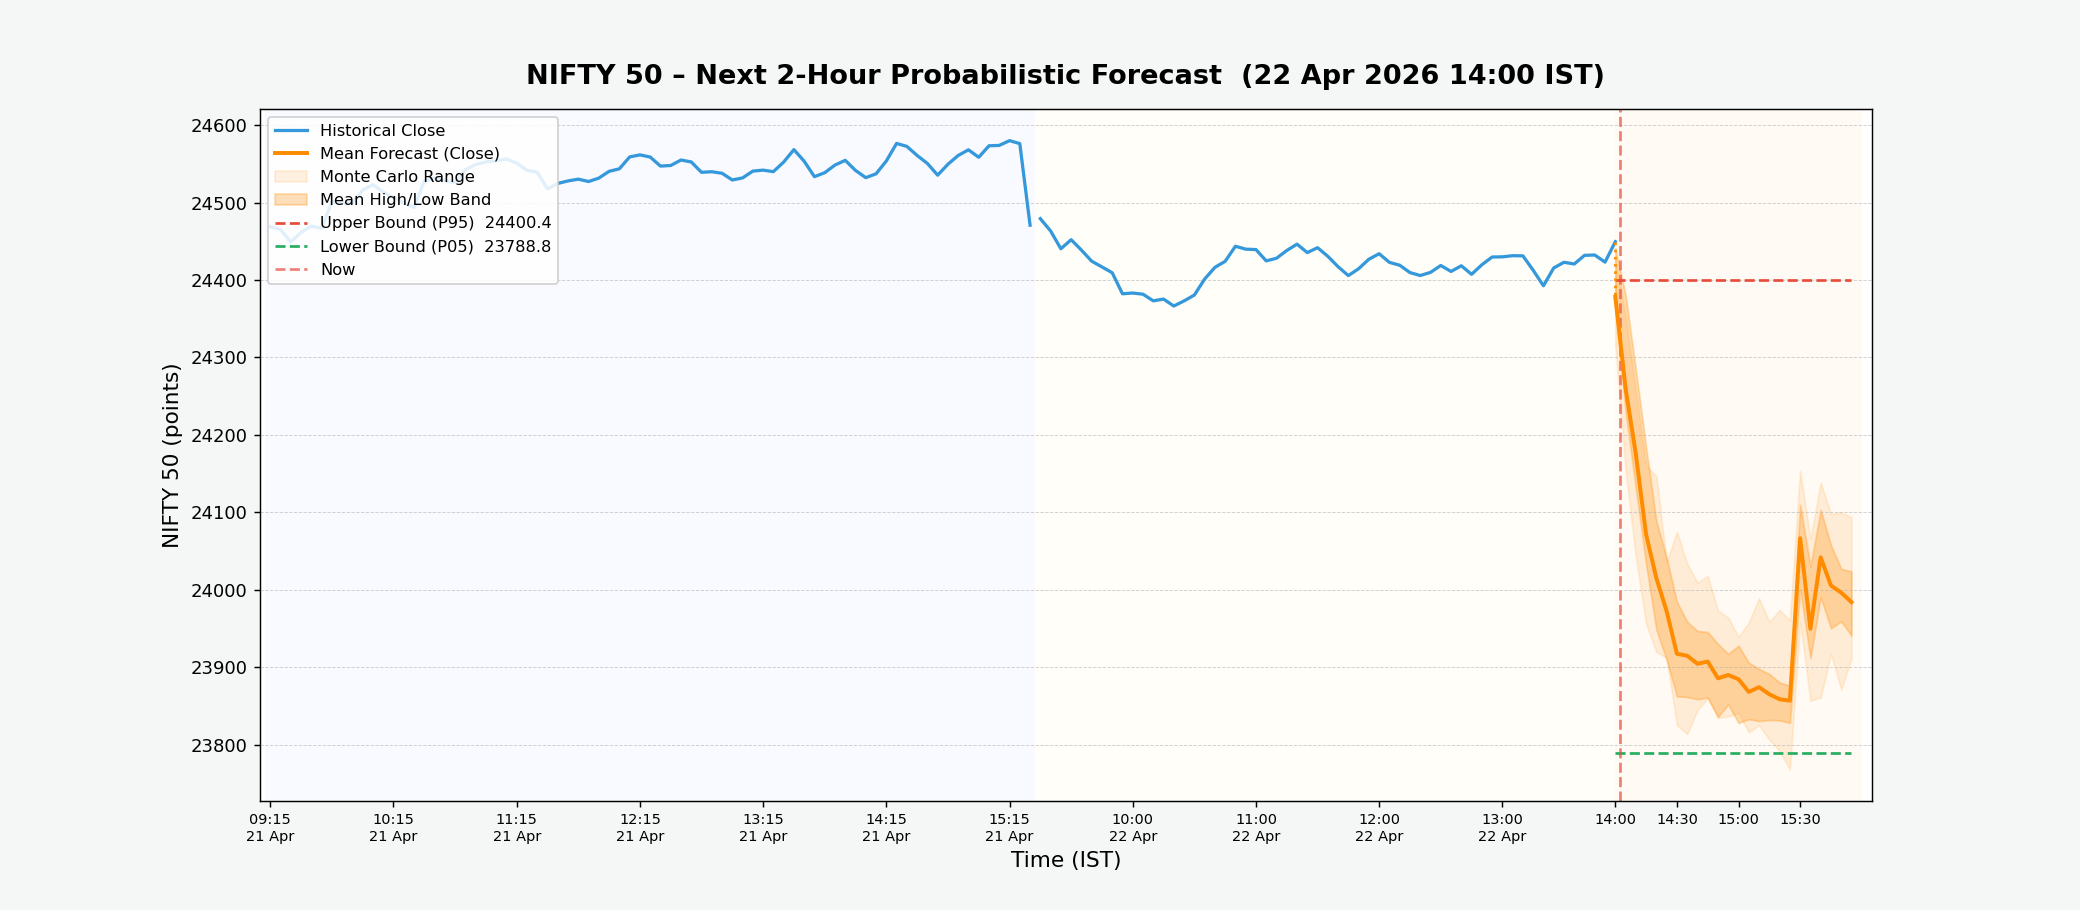
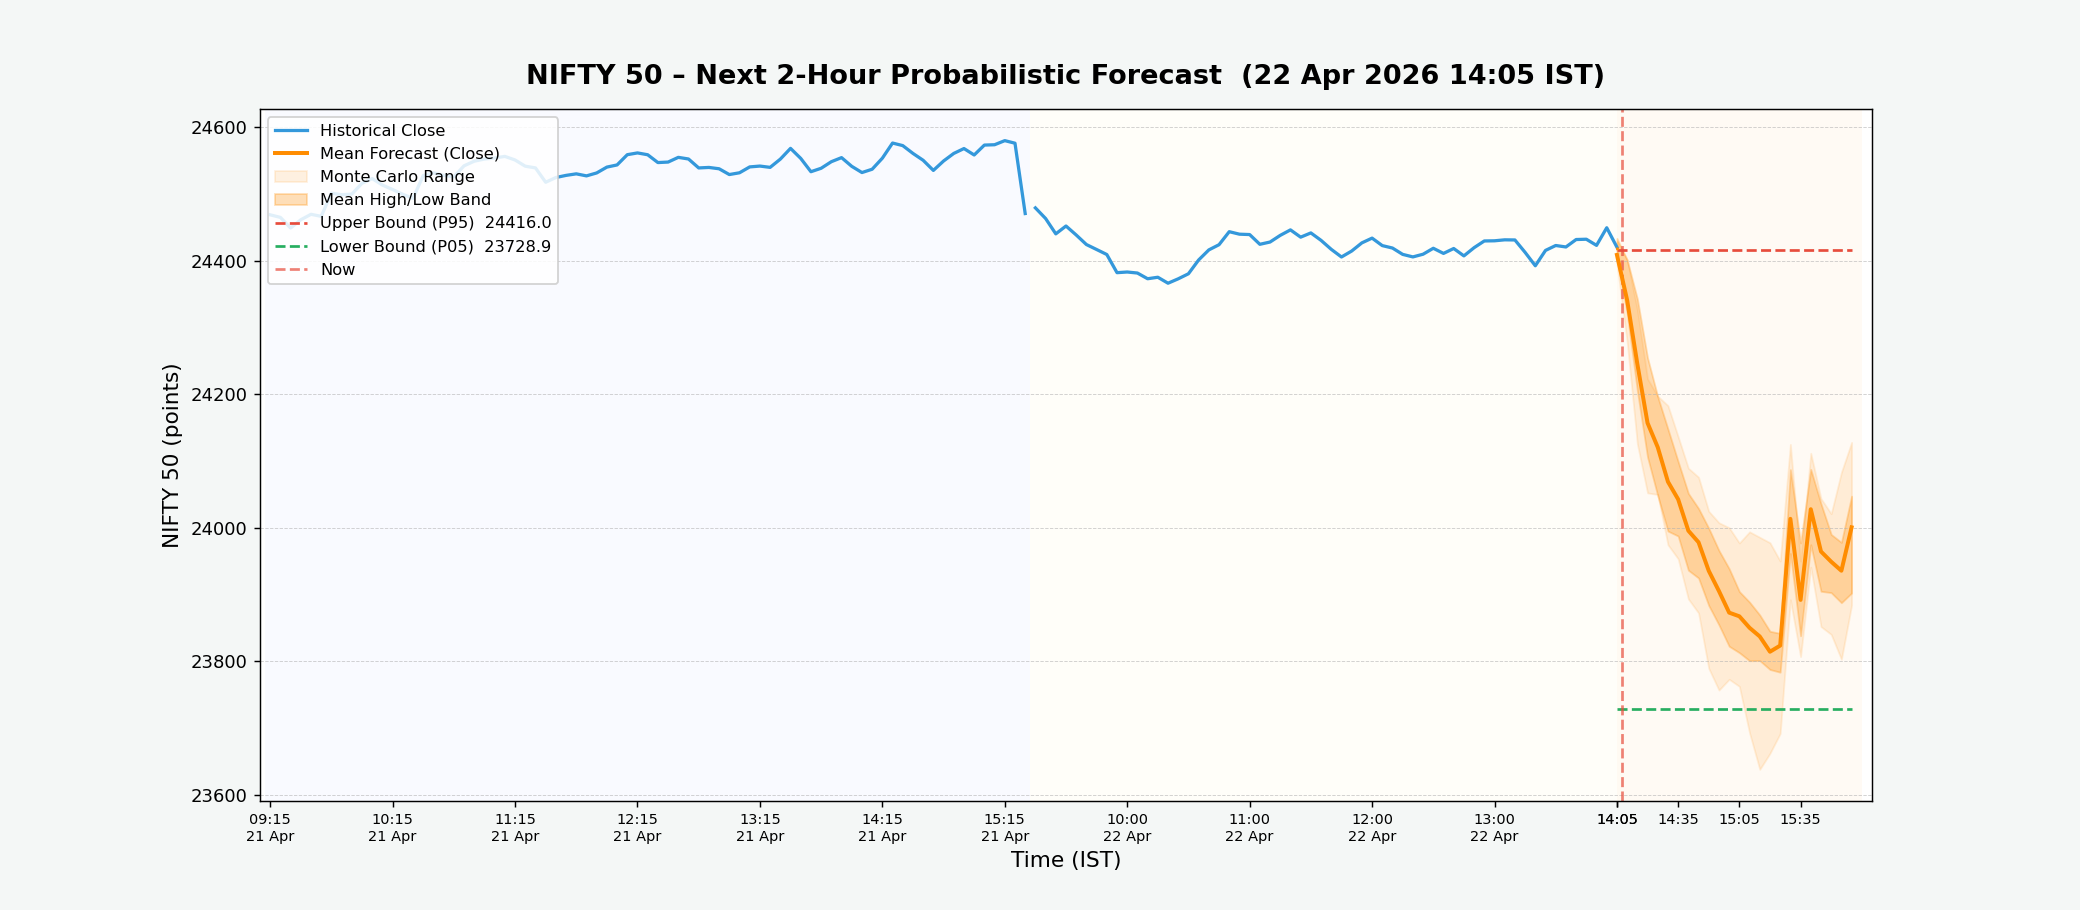
NIFTY forecast update – 2026-04-22 14:05 IST

diff --git a/index.html b/index.html
@@ -24,29 +24,29 @@
 
         <!-- Timestamp bar -->
         <div class="timestamp-bar">
-            <span>Last updated (IST):&nbsp;<strong id="update-time">2026-04-22 14:00:04</strong></span>
+            <span>Last updated (IST):&nbsp;<strong id="update-time">2026-04-22 14:05:04</strong></span>
         </div>
 
         <!-- Metric cards -->
         <div class="metrics-container">
             <div class="metric-card bullish">
                 <div class="metric-label">Bullish Bar Ratio</div>
-                <div class="metric-value" id="upside-prob">38.8%</div>
+                <div class="metric-value" id="upside-prob">33.3%</div>
                 <div class="metric-sub">Next 2h · close &gt; open %</div>
             </div>
             <div class="metric-card upper">
                 <div class="metric-label">Upper Bound</div>
-                <div class="metric-value" id="upper-bound">24400.4</div>
+                <div class="metric-value" id="upper-bound">24416.0</div>
                 <div class="metric-sub">Max predicted high</div>
             </div>
             <div class="metric-card lower">
                 <div class="metric-label">Lower Bound</div>
-                <div class="metric-value" id="lower-bound">23788.8</div>
+                <div class="metric-value" id="lower-bound">23728.9</div>
                 <div class="metric-sub">Min predicted low</div>
             </div>
             <div class="metric-card range">
                 <div class="metric-label">Predicted Range</div>
-                <div class="metric-value" id="pred-range">611.6 pts</div>
+                <div class="metric-value" id="pred-range">687.1 pts</div>
                 <div class="metric-sub">Upper − Lower spread</div>
             </div>
         </div>
